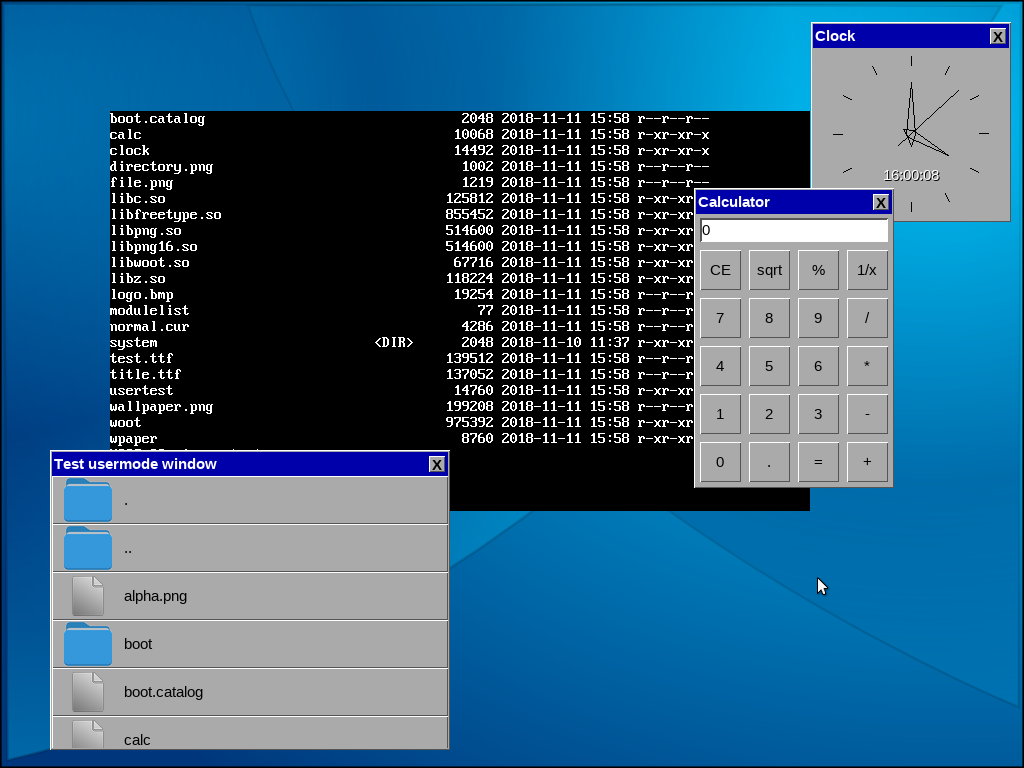
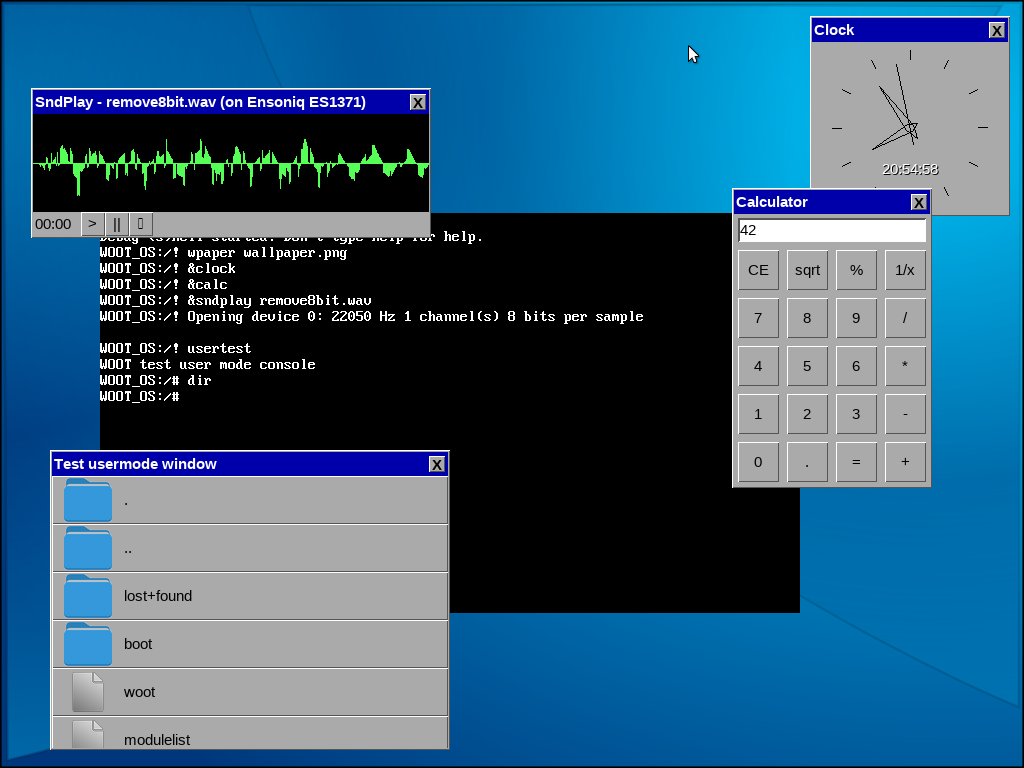
made sndplay GUI based program updated screenshot

diff --git a/sndplay/main.c b/sndplay/main.c
@@ -4,15 +4,26 @@
 #include <stdlib.h>
 #include <string.h>
 #include <woot/audio.h>
+#include <woot/pixmap.h>
+#include <woot/ui.h>
+#include <woot/vkeys.h>
+#include <woot/wm.h>
+
+static int mapValue(int imin, int imax, int omin, int omax, int val)
+{
+    return (float)(val - imin) / (imax - imin) * (omax - omin) + omin;
+}
 
 int main(int argc, char *argv[])
 {
+
     if(argc < 2)
     {
         printf("WOOT sound file player\n");
         printf("usage: %s <filename> [device_id]\n", argv[0]);
         return 0;
     }
+
     FILE *f = fopen(argv[1], "rb");
     if(!f)
     {
@@ -70,7 +81,7 @@ int main(int argc, char *argv[])
     int rate = 22050;
     int channels = 1;
     int bits = 8;
-    int samples = 4096;
+    int samples = 2048;
 
     fseek(f, 6, SEEK_CUR);
     fread(&channels, 2, 1, f);
@@ -84,7 +95,7 @@ int main(int argc, char *argv[])
 
     printf("Opening device %d: %d Hz %d channel(s) %d bits per sample\n", devId, rate, channels, bits);
 
-    res = auOpenDevice(devId, rate, channels, bits, 4096);
+    res = auOpenDevice(devId, rate, channels, bits, samples);
     if(res)
     {
         printf("Couldn't open device %d\n", devId);
@@ -101,30 +112,108 @@ int main(int argc, char *argv[])
         return frameSize;
     }
 
-    uint8_t *buffer = (uint8_t *)malloc(frameSize);
+    char title[128];
+    char vendor[32];
+    char model[32];
+    auGetDeviceVendor(devId, vendor, sizeof(vendor));
+    auGetDeviceModel(devId, model, sizeof(model));
+    sprintf(title, "%s - %s (on %s %s)", "SndPlay", argv[1], vendor, model);
+
+    union
+    {
+        void *ptr;
+        uint8_t *byte;
+        int16_t *sshort;
+    } buffer;
+
+    buffer.ptr = malloc(frameSize);
     int bufferCount = auGetBufferCount(devId);
 
-    res = 0;
-    for(int i = 0;; ++i)
+    wmInitialize();
+    struct wmWindow *wnd = wmCreateWindow(200, 200, 400, 150, title, 1);
+    wmShowWindow(wnd);
+
+    struct uiLabel *lblPosition = uiLabelCreate(wnd->RootControl, 0, wnd->ClientRectangle.Height - 24, 48, 24, "00:00", NULL, NULL);
+    struct uiButton *btnPlay = uiButtonCreate(wnd->RootControl, 48, wnd->ClientRectangle.Height - 24, 24, 24, ">", NULL, NULL);
+    struct uiButton *btnPause = uiButtonCreate(wnd->RootControl, 72, wnd->ClientRectangle.Height - 24, 24, 24, "||", NULL, NULL);
+    struct uiButton *btnStop = uiButtonCreate(wnd->RootControl, 96, wnd->ClientRectangle.Height - 24, 24, 24, "\xFF", NULL, NULL);
+
+    struct pmPixMap *pm = wnd->ClientArea;
+    struct wmRectangle pmRect = pmGetRectangle(pm);
+    struct wmRectangle dispRect = { pmRect.X, pmRect.Y, pmRect.Width, pmRect.Height - 24 };
+
+    uiControlRedraw(wnd->RootControl);
+    wmUpdateWindow(wnd);
+
+    struct wmEvent event;
+    for(int frame = 0, res = 0;; ++frame)
     {
-        res = fread(buffer, 1, frameSize, f);
+        int quit = 0;
+        while(wmPeekEvent(wnd, &event, 1) > 0)
+        {
+            res = wmProcessEvent(wnd, &event);
+            if(res)
+            {
+                quit = 1;
+                break;
+            }
+            if(event.Type == ET_KEYBOARD && event.Keyboard.Flags == 0)
+            {
+                if(event.Keyboard.Key == VK_ESCAPE)
+                {
+                    quit = 1;
+                    break;
+                }
+            }
+        }
+        if(quit) break;
+
+        pmFillRectangle(pm, 0, 0, dispRect.Width, dispRect.Height, pmColorBlack);
+        pmInvalidateRect(pm, dispRect);
+        int cy = dispRect.Height / 2;
+        for(int x = 0; x < wnd->ClientRectangle.Width; ++x)
+        {
+            int val = 0;
+            if(bits == 8 && channels == 1)
+                val = buffer.byte[mapValue(0, wnd->ClientRectangle.Width, 0, samples, x)] - 128;
+            else if(bits == 8 && channels == 2)
+                val = buffer.byte[2 * mapValue(0, wnd->ClientRectangle.Width, 0, samples, x)] - 128;
+            else if(bits == 16 && channels == 1)
+                val = buffer.sshort[mapValue(0, wnd->ClientRectangle.Width, 0, samples, x)] >> 8;
+            else if(bits == 16 && channels == 2)
+                val = buffer.sshort[2 * mapValue(0, wnd->ClientRectangle.Width, 0, samples, x)] >> 8;
+
+            val = mapValue(-128, 127, -cy, cy, val);
+            pmVLine(pm, x, cy, cy + val, pmColorBrightGreen);
+        }
+        wmUpdateWindow(wnd);
+
+        res = fread(buffer.ptr, 1, frameSize, f);
         if(res < 0)
         {
             printf("Read error\n");
             break;
         }
         else if(res != frameSize)
+            memset(buffer.byte + res, 0, frameSize - res);
+        if(auWriteDevice(devId, buffer.byte))
         {
-            memset(buffer + res, 0, frameSize - res);
-            res = 0;
+            printf("Playback error\n");
+            break;
         }
-        auWriteDevice(devId, buffer);
-        if(i == (bufferCount - 1))
+
+        if(frame == (bufferCount - 1))
             auStartPlayback(devId);
-        if(res != frameSize) break;
+        if(res != frameSize)
+        {
+            res = 0;
+            break;
+        }
     }
     auStopPlayback(devId);
-    free(buffer);
+    wmDeleteWindow(wnd);
+    wmCleanup();
+    free(buffer.ptr);
     auCloseDevice(devId);
     fclose(f);
     return res;

diff --git a/kernel/syscalls.cpp b/kernel/syscalls.cpp
@@ -109,7 +109,7 @@ SysCalls::Callback SysCalls::callbacks[] =
     nullptr, nullptr, nullptr, nullptr, nullptr, nullptr, nullptr, nullptr, nullptr, nullptr, nullptr, nullptr, nullptr, nullptr, nullptr, nullptr, // 352 - 367
     nullptr, nullptr, nullptr, nullptr, nullptr, nullptr, nullptr, nullptr, nullptr, nullptr, nullptr, nullptr, nullptr, nullptr, nullptr, nullptr, // 368 - 383
     nullptr, nullptr, sys_create_window, sys_show_window, sys_hide_window, sys_destroy_window, sys_draw_rectangle, sys_draw_filled_rectangle, sys_update_window, sys_redraw_window, sys_draw_line, sys_blit, sys_alpha_blit, sys_map_window, sys_invalidate_rect, sys_get_window_size, // 384 - 399
-    sys_get_pixel_format, sys_set_drag_rect, sys_get_event, sys_peek_event, sys_audio_open, sys_audio_close, sys_audio_get_frame_size, sys_audio_write, sys_audio_start_playback, sys_audio_stop_playback, sys_audio_get_buffer_count, nullptr, nullptr, nullptr, nullptr, nullptr, // 400 - 415
+    sys_get_pixel_format, sys_set_drag_rect, sys_get_event, sys_peek_event, sys_audio_open, sys_audio_close, sys_audio_get_frame_size, sys_audio_write, sys_audio_start_playback, sys_audio_stop_playback, sys_audio_get_buffer_count, sys_audio_get_device_vendor, sys_audio_get_device_model, nullptr, nullptr, nullptr, // 400 - 415
     nullptr, nullptr, nullptr, nullptr, nullptr, nullptr, nullptr, nullptr, nullptr, nullptr, nullptr, nullptr, nullptr, nullptr, nullptr, nullptr, // 416 - 431
     nullptr, nullptr, nullptr, nullptr, nullptr, nullptr, nullptr, nullptr, nullptr, nullptr, nullptr, nullptr, nullptr, nullptr, nullptr, nullptr, // 432 - 447
     nullptr, nullptr, nullptr, nullptr, nullptr, nullptr, nullptr, nullptr, nullptr, nullptr, nullptr, nullptr, nullptr, nullptr, nullptr, nullptr, // 448 - 463
@@ -706,6 +706,56 @@ long SysCalls::sys_audio_get_buffer_count(long *args) // 410
     res = dev->GetBufferCount();
     AudioDevice::UnLock();
     return res;
+}
+
+long SysCalls::sys_audio_get_device_vendor(long *args) // 411
+{
+    int id = args[1];
+    char *buffer = (char *)args[2];
+    int bufSize = args[3];
+    if(!buffer || bufSize <= 0)
+        return -EINVAL;
+    buffer[0] = 0;
+
+    int res = AudioDevice::Lock();
+    if(res) return res;
+    AudioDevice *dev = AudioDevice::GetByID_nolock(id);
+    if(!dev)
+    {
+        AudioDevice::UnLock();
+        return -EINVAL;
+    }
+    const char *str = dev->GetVendor();
+    strncpy(buffer, str, bufSize);
+    buffer[bufSize - 1] = 0;
+    AudioDevice::UnLock();
+
+    return 0;
+}
+
+long SysCalls::sys_audio_get_device_model(long *args) // 412
+{
+    int id = args[1];
+    char *buffer = (char *)args[2];
+    int bufSize = args[3];
+    if(!buffer || bufSize <= 0)
+        return -EINVAL;
+    buffer[0] = 0;
+
+    int res = AudioDevice::Lock();
+    if(res) return res;
+    AudioDevice *dev = AudioDevice::GetByID_nolock(id);
+    if(!dev)
+    {
+        AudioDevice::UnLock();
+        return -EINVAL;
+    }
+    const char *str = dev->GetModel();
+    strncpy(buffer, str, bufSize);
+    buffer[bufSize - 1] = 0;
+    AudioDevice::UnLock();
+
+    return 0;
 }
 
 void SysCalls::Initialize()

diff --git a/libwoot/wm.c b/libwoot/wm.c
@@ -299,15 +299,16 @@ struct fntFont *wmGetDefaultFont()
     return defaultFont;
 }
 
-int wmGetEvent(int window, struct wmEvent *event)
+int wmGetEvent(struct wmWindow *window, struct wmEvent *event)
 {
-    return syscall2(SYS_get_event, window, (long)event);
+    if(!window || !event) return -EINVAL;
+    return syscall2(SYS_get_event, window->ID, (long)event);
 }
 
-int wmPeekEvent(int window, struct wmEvent *event, int remove)
+int wmPeekEvent(struct wmWindow *window, struct wmEvent *event, int remove)
 {
-    int res = syscall3(SYS_peek_event, window, (long)event, remove);
-    if(res < 0) return res;
+    if(!window || !event) return -EINVAL;
+    return syscall3(SYS_peek_event, window->ID, (long)event, remove);
 }
 
 int wmProcessEvent(struct wmWindow *window, struct wmEvent *event)
@@ -320,6 +321,7 @@ int wmProcessEvent(struct wmWindow *window, struct wmEvent *event)
     }
     uiControlProcessEvent(window->RootControl, *event);
     wmUpdateWindow(window);
+    return 0;
 }
 
 void wmCleanup()

diff --git a/libwoot/include/woot/wm.h b/libwoot/include/woot/wm.h
@@ -90,8 +90,8 @@ int wmDecorateWindow(struct wmWindow *window);
 void wmDeleteWindow(struct wmWindow *window);
 int wmSetDragRectangle(struct wmWindow *window, struct wmRectangle *rect);
 struct fntFont *wmGetDefaultFont();
-int wmGetEvent(int window, struct wmEvent *event);
-int wmPeekEvent(int window, struct wmEvent *event, int remove);
+int wmGetEvent(struct wmWindow *window, struct wmEvent *event);
+int wmPeekEvent(struct wmWindow *window, struct wmEvent *event, int remove);
 int wmProcessEvent(struct wmWindow *window, struct wmEvent *event);
 void wmCleanup();
 

diff --git a/include/syscalls.h b/include/syscalls.h
@@ -59,6 +59,8 @@ class SysCalls
     static long sys_audio_start_playback(long *args); // 408
     static long sys_audio_stop_playback(long *args); // 409
     static long sys_audio_get_buffer_count(long *args); // 410
+    static long sys_audio_get_device_vendor(long *args); // 411
+    static long sys_audio_get_device_model(long *args); // 412
 public:
     static void Initialize();
     static void Cleanup();

diff --git a/libwoot/audio.c b/libwoot/audio.c
@@ -37,3 +37,13 @@ int auGetBufferCount(int id)
 {
     return syscall1(SYS_audio_get_buffer_count, id);
 }
+
+int auGetDeviceVendor(int id, char *buffer, int bufSize)
+{
+    return syscall3(SYS_audio_get_device_vendor, id, (long)buffer, bufSize);
+}
+
+int auGetDeviceModel(int id, char *buffer, int bufSize)
+{
+    return syscall3(SYS_audio_get_device_model, id, (long)buffer, bufSize);
+}

diff --git a/clock/main.c b/clock/main.c
@@ -25,7 +25,7 @@ int main(int argc, char *argv[])
         {
             int quit = 0;
             struct wmEvent event;
-            while(wmPeekEvent(wnd->ID, &event, 1) > 0)
+            while(wmPeekEvent(wnd, &event, 1) > 0)
             {
                 wmProcessEvent(wnd, &event);
                 if(event.Type == ET_KEYBOARD && event.Keyboard.Key == VK_ESCAPE)

diff --git a/calc/main.c b/calc/main.c
@@ -215,7 +215,7 @@ int main(int argc, char *argv[])
     for(;;)
     {
         struct wmEvent event;
-        wmGetEvent(wnd->ID, &event);
+        wmGetEvent(wnd, &event);
         wmProcessEvent(wnd, &event);
         if(event.Type == ET_KEYBOARD && event.Keyboard.Flags == 0)
         {

diff --git a/libwoot/include/woot/audio.h b/libwoot/include/woot/audio.h
@@ -8,5 +8,7 @@ int auWriteDevice(int id, void *buffer);
 int auStartPlayback(int id);
 int auStopPlayback(int id);
 int auGetBufferCount(int id);
+int auGetDeviceVendor(int id, char *buffer, int bufSize);
+int auGetDeviceModel(int id, char *buffer, int bufSize);
 
 #endif // AUDIO_H

diff --git a/libc/include/sys/syscall.h b/libc/include/sys/syscall.h
@@ -410,5 +410,7 @@
 #define SYS_audio_start_playback    408
 #define SYS_audio_stop_playback     409
 #define SYS_audio_get_buffer_count  410
+#define SYS_audio_get_device_vendor 411
+#define SYS_audio_get_device_model  412
 
 #endif // SYS_SYSCALL_H

diff --git a/libwoot/include/woot/ui.h b/libwoot/include/woot/ui.h
@@ -1,6 +1,9 @@
 #ifndef UI_H
 #define UI_H
 
+#include <woot/font.h>
+#include <woot/pixmap.h>
+
 #ifdef __cplusplus
 extern "C" {
 #endif // __cplusplus
